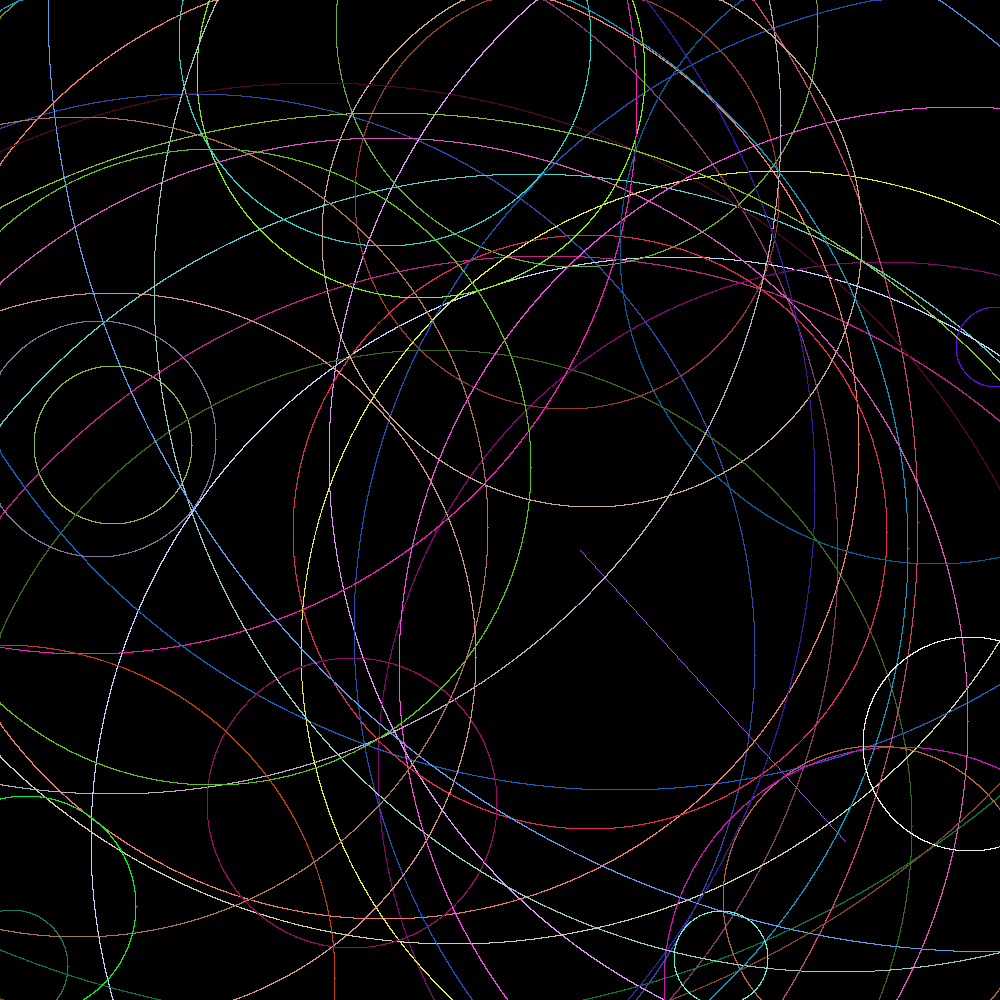
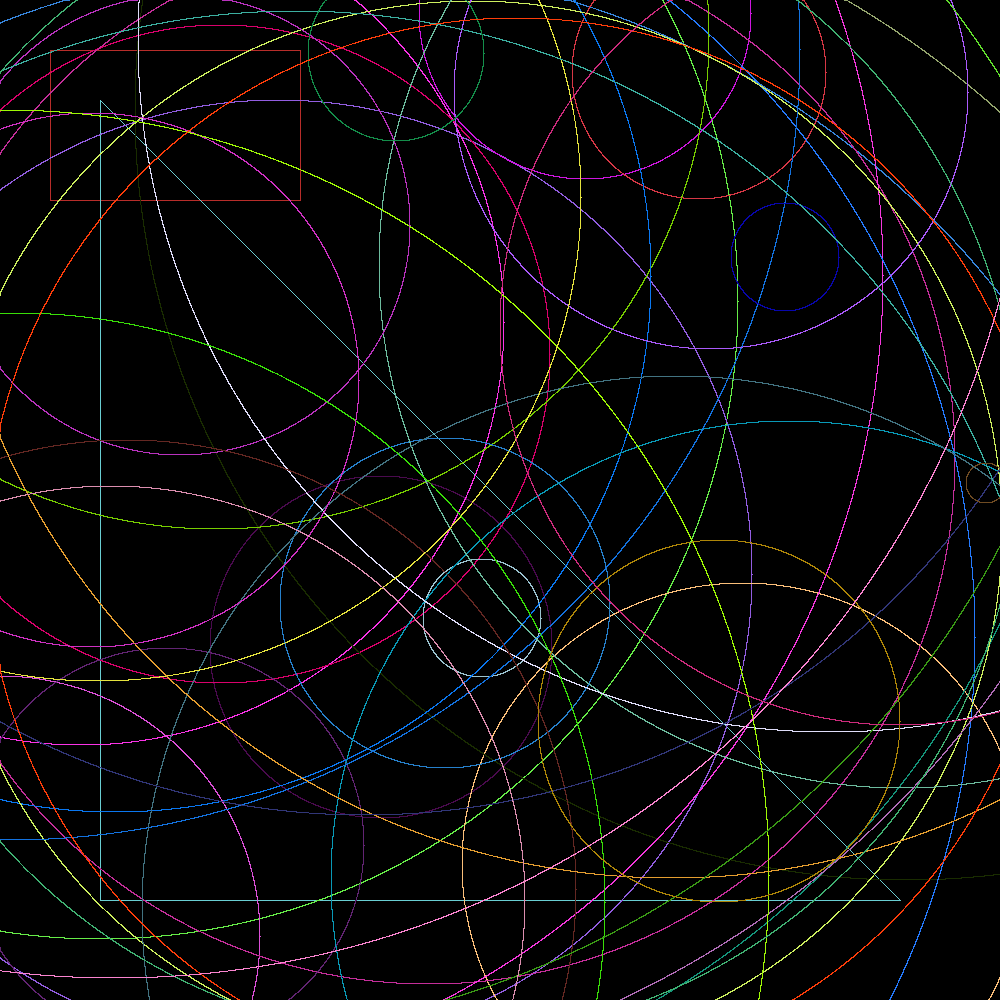
do Rectangle

diff --git a/Main.java b/Main.java
@@ -14,13 +14,13 @@ interface Displayable {
 public class Main {
     public static void main(String[] args) {
         Image image = new Image(1000, 1000);
-        // Rectangle rectangle = new Rectangle(new Point(50, 50), new Point(300, 200));
-        // rectangle.draw(image);
-        // Triangle triangle = new Triangle(new Point(100, 100), new Point(900, 900), new Point(100, 900));
-        // triangle.draw(image);
+        Rectangle rectangle = new Rectangle(new Point(50, 50), new Point(300, 200));
+        rectangle.draw(image);
+        Triangle triangle = new Triangle(new Point(100, 100), new Point(900, 900), new Point(100, 900));
+        triangle.draw(image);
 
-        Line line = new Line();
-        line.draw(image);
+        // Line line = new Line();
+        // line.draw(image);
 
         for (int i = 0; i < 50; i++) {
             Circle circle = Circle.random(image.getWidth(), image.getHeight());

diff --git a/geometrical_shapes/Rectangle.java b/geometrical_shapes/Rectangle.java
@@ -1,5 +1,32 @@
 package geometrical_shapes;
 
-public class Rectangle {
-    
+import java.awt.Color;
+
+public class Rectangle implements Drawable {
+    Point p1;
+    Point p2;
+    Point p3;
+    Point p4;
+    Color color;
+
+    public Rectangle(Point p1, Point p3) {
+        this.p1 = p1;
+        this.p2 = new Point(p1.x, p3.y);
+        this.p3 = p3;
+        this.p4 = new Point(p3.x, p1.y);
+        this.color = getColor();
+    }
+
+    @Override
+    public void draw(Displayable displayable) {
+        Line line1 = new Line(this.p1,this.p2, this.color);
+        Line line2 = new Line(this.p2,this.p3, this.color);
+        Line line3 = new Line(this.p3,this.p4, this.color);
+        Line line4 = new Line(this.p4,this.p1, this.color);
+        line1.draw(displayable);
+        line2.draw(displayable);
+        line3.draw(displayable);
+        line4.draw(displayable);
+    }
+
 }

diff --git a/geometrical_shapes/Triangle.java b/geometrical_shapes/Triangle.java
@@ -1,0 +1,28 @@
+package geometrical_shapes;
+import java.awt.Color;
+
+public class Triangle  implements Drawable {
+     Point p1;
+     Point p2;
+     Point p3;
+    Color color;
+
+    public Triangle(Point p1,Point p2, Point p3){
+        this.p1=p1;
+        this.p2=p2;
+        this.p3=p3;
+        this.color = getColor();
+    }
+
+
+
+    @Override
+    public void draw(Displayable displayable) {
+        Line line1 = new Line(this.p2,this.p1, this.color);
+        Line line2 = new Line(this.p2,this.p3, this.color);
+        Line line3 = new Line(this.p3,this.p1, this.color);
+        line1.draw(displayable);
+        line2.draw(displayable);
+        line3.draw(displayable);
+    }
+}
